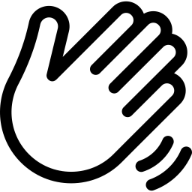
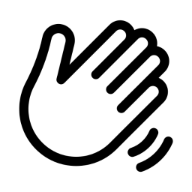
deploy

diff --git a/client/dist/sw.js b/client/dist/sw.js
@@ -1,1 +1,1 @@
-if(!self.define){let e,i={};const n=(n,r)=>(n=new URL(n+".js",r).href,i[n]||new Promise((i=>{if("document"in self){const e=document.createElement("script");e.src=n,e.onload=i,document.head.appendChild(e)}else e=n,importScripts(n),i()})).then((()=>{let e=i[n];if(!e)throw new Error(`Module ${n} didn’t register its module`);return e})));self.define=(r,s)=>{const c=e||("document"in self?document.currentScript.src:"")||location.href;if(i[c])return;let o={};const d=e=>n(e,c),t={module:{uri:c},exports:o,require:d};i[c]=Promise.all(r.map((e=>t[e]||d(e)))).then((e=>(s(...e),o)))}}define(["./workbox-8a7d9033"],(function(e){"use strict";self.skipWaiting(),e.clientsClaim(),e.precacheAndRoute([{url:"assets/index.2b1f4d5e.js",revision:null},{url:"assets/index.d508b234.css",revision:null},{url:"assets/vendor.79bee38d.js",revision:null},{url:"index.html",revision:"0c088de1082afddfdfcf7c9b5ba88a41"},{url:"favicon.ico",revision:"16ccac618522c20835a8354bd397a405"},{url:"robots.txt",revision:"cd9cd94aaa699e0a16e692b6bb16f672"},{url:"apple-touch-icon.png",revision:"cc209ccd2875cee0dd188a0bfef0dfc0"},{url:"android-chrome-192x192.png",revision:"bea499c2c58083a1857d9afb3ff4fb50"},{url:"android-chrome-512x512.png",revision:"92c35920b6ba4681a1ab5880221cc32d"},{url:"manifest.webmanifest",revision:"9e2f37c6bbf7cc72e4d74e9bf0f4881f"}],{}),e.registerRoute(new e.NavigationRoute(e.createHandlerBoundToURL("index.html")))}));
+if(!self.define){let e,i={};const n=(n,r)=>(n=new URL(n+".js",r).href,i[n]||new Promise((i=>{if("document"in self){const e=document.createElement("script");e.src=n,e.onload=i,document.head.appendChild(e)}else e=n,importScripts(n),i()})).then((()=>{let e=i[n];if(!e)throw new Error(`Module ${n} didn’t register its module`);return e})));self.define=(r,s)=>{const o=e||("document"in self?document.currentScript.src:"")||location.href;if(i[o])return;let c={};const t=e=>n(e,o),d={module:{uri:o},exports:c,require:t};i[o]=Promise.all(r.map((e=>d[e]||t(e)))).then((e=>(s(...e),c)))}}define(["./workbox-8a7d9033"],(function(e){"use strict";self.skipWaiting(),e.clientsClaim(),e.precacheAndRoute([{url:"assets/index.2b1f4d5e.js",revision:null},{url:"assets/index.d508b234.css",revision:null},{url:"assets/vendor.79bee38d.js",revision:null},{url:"index.html",revision:"0c088de1082afddfdfcf7c9b5ba88a41"},{url:"favicon.ico",revision:"7bed1cc6eca51ab7af81382fa6e52db1"},{url:"robots.txt",revision:"cd9cd94aaa699e0a16e692b6bb16f672"},{url:"apple-touch-icon.png",revision:"7c0e1145d8a9475218e826e01b1152b7"},{url:"android-chrome-192x192.png",revision:"0a0e30fee6fd873f09eb40b25c922e18"},{url:"android-chrome-512x512.png",revision:"7cae8c5f75f3d8ae8218a0ea1c62a238"},{url:"manifest.webmanifest",revision:"9e2f37c6bbf7cc72e4d74e9bf0f4881f"}],{}),e.registerRoute(new e.NavigationRoute(e.createHandlerBoundToURL("index.html")))}));
